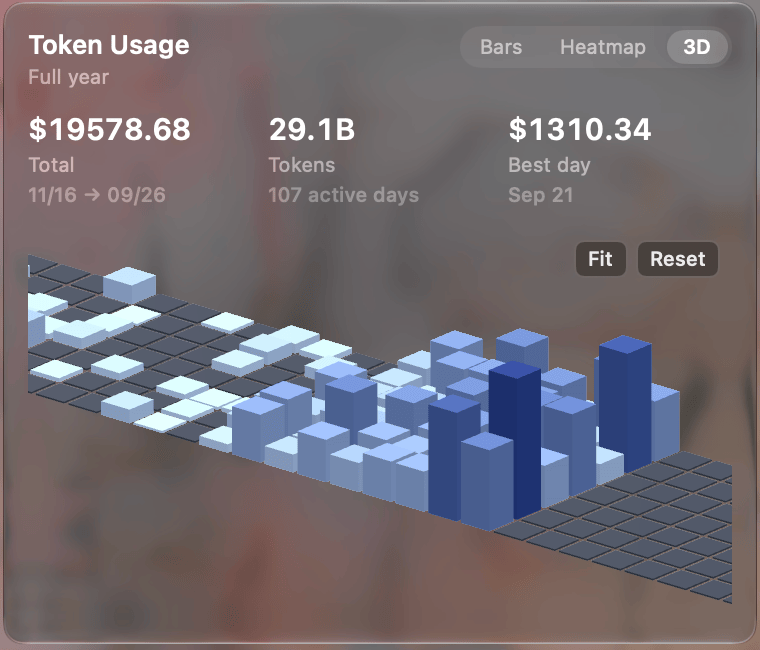
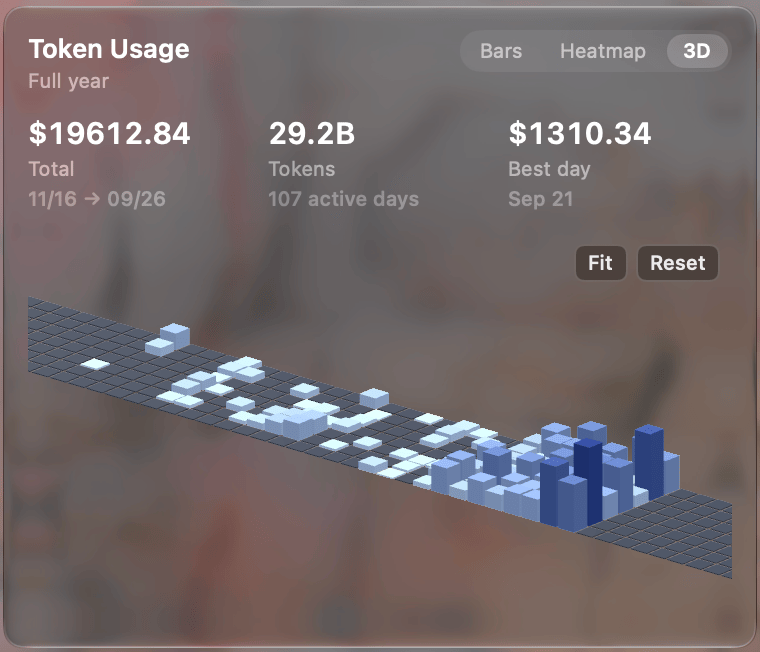
docs(readme): show Simplified Chinese captures, align the 3D figure
`README.zh-CN.md` now shows the app in its Simplified Chinese UI:
`docs/screenshots/zh-CN/` holds the same ten images as the other two sets,
taken from the renamed build with `-AppleLanguages (zh-Hans)` and compressed
the same way (pngquant, quality 85-98; 2.8 MB). Only its ten `src` paths
change.

The 3D figure is retaken in all three languages from one camera position, so
the English, Traditional and Simplified READMEs show the same view of the
year: the whole graph fitted to the card. Earlier English and Traditional
captures had a closer camera that a Simplified capture could not reproduce
after the view was refitted, so all three were retaken with the stored orbit
value written before each launch.

diff --git a/README.zh-CN.md b/README.zh-CN.md
@@ -34,28 +34,28 @@
 点击图标即可展开 Liquid Glass 面板（macOS 27 之前的系统为浮层弹窗 popover）。上方的 **App 标签页**用于筛选要查看的 agent；**视图切换器**提供八种观察维度：概览、额度、模型、每月、每日、每小时、统计与 Agent；此外还能将全年的使用情况呈现为支持任意视角旋转的 3D 图表。
 
 <p align="center">
-  <img src="docs/screenshots/graph-3d.png" alt="交互式 3D 贡献图" width="400">
+  <img src="docs/screenshots/zh-CN/graph-3d.png" alt="交互式 3D 贡献图" width="400">
 </p>
 
 <table>
   <tr>
-    <td align="center" width="50%"><img src="docs/screenshots/overview.png" alt="概览" width="300"><br><sub><b>概览</b> — 最紧绷的额度上限、今日用量与年度概况</sub></td>
-    <td align="center" width="50%"><img src="docs/screenshots/quota.png" alt="额度视图" width="300"><br><sub><b>额度</b> — 历史周期与额度重置时间</sub></td>
+    <td align="center" width="50%"><img src="docs/screenshots/zh-CN/overview.png" alt="概览" width="300"><br><sub><b>概览</b> — 最紧绷的额度上限、今日用量与年度概况</sub></td>
+    <td align="center" width="50%"><img src="docs/screenshots/zh-CN/quota.png" alt="额度视图" width="300"><br><sub><b>额度</b> — 历史周期与额度重置时间</sub></td>
   </tr>
   <tr>
-    <td align="center" width="50%"><img src="docs/screenshots/models.png" alt="模型视图" width="300"><br><sub><b>模型</b> — 按费用排序的各模型用量</sub></td>
-    <td align="center" width="50%"><img src="docs/screenshots/monthly.png" alt="每月视图" width="300"><br><sub><b>每月</b> — 活跃月份与单月明细下钻</sub></td>
+    <td align="center" width="50%"><img src="docs/screenshots/zh-CN/models.png" alt="模型视图" width="300"><br><sub><b>模型</b> — 按费用排序的各模型用量</sub></td>
+    <td align="center" width="50%"><img src="docs/screenshots/zh-CN/monthly.png" alt="每月视图" width="300"><br><sub><b>每月</b> — 活跃月份与单月明细下钻</sub></td>
   </tr>
   <tr>
-    <td align="center" width="50%"><img src="docs/screenshots/daily.png" alt="每日视图" width="300"><br><sub><b>每日</b> — 活跃日期与单日明细下钻</sub></td>
-    <td align="center" width="50%"><img src="docs/screenshots/hourly.png" alt="每小时视图" width="300"><br><sub><b>每小时</b> — 一天中各时段的 token 消耗分布</sub></td>
+    <td align="center" width="50%"><img src="docs/screenshots/zh-CN/daily.png" alt="每日视图" width="300"><br><sub><b>每日</b> — 活跃日期与单日明细下钻</sub></td>
+    <td align="center" width="50%"><img src="docs/screenshots/zh-CN/hourly.png" alt="每小时视图" width="300"><br><sub><b>每小时</b> — 一天中各时段的 token 消耗分布</sub></td>
   </tr>
   <tr>
-    <td align="center" width="50%"><img src="docs/screenshots/stats.png" alt="统计视图" width="300"><br><sub><b>统计</b> — 核心数据摘要与连续使用天数</sub></td>
-    <td align="center" width="50%"><img src="docs/screenshots/agents.png" alt="Agent 视图" width="300"><br><sub><b>Agent</b> — 按费用排序的子 Agent</sub></td>
+    <td align="center" width="50%"><img src="docs/screenshots/zh-CN/stats.png" alt="统计视图" width="300"><br><sub><b>统计</b> — 核心数据摘要与连续使用天数</sub></td>
+    <td align="center" width="50%"><img src="docs/screenshots/zh-CN/agents.png" alt="Agent 视图" width="300"><br><sub><b>Agent</b> — 按费用排序的子 Agent</sub></td>
   </tr>
   <tr>
-    <td align="center" colspan="2"><img src="docs/screenshots/settings.png" alt="设置" width="300"><br><sub><b>设置</b> — 菜单栏标题、图标与额度数据源</sub></td>
+    <td align="center" colspan="2"><img src="docs/screenshots/zh-CN/settings.png" alt="设置" width="300"><br><sub><b>设置</b> — 菜单栏标题、图标与额度数据源</sub></td>
   </tr>
 </table>
 
